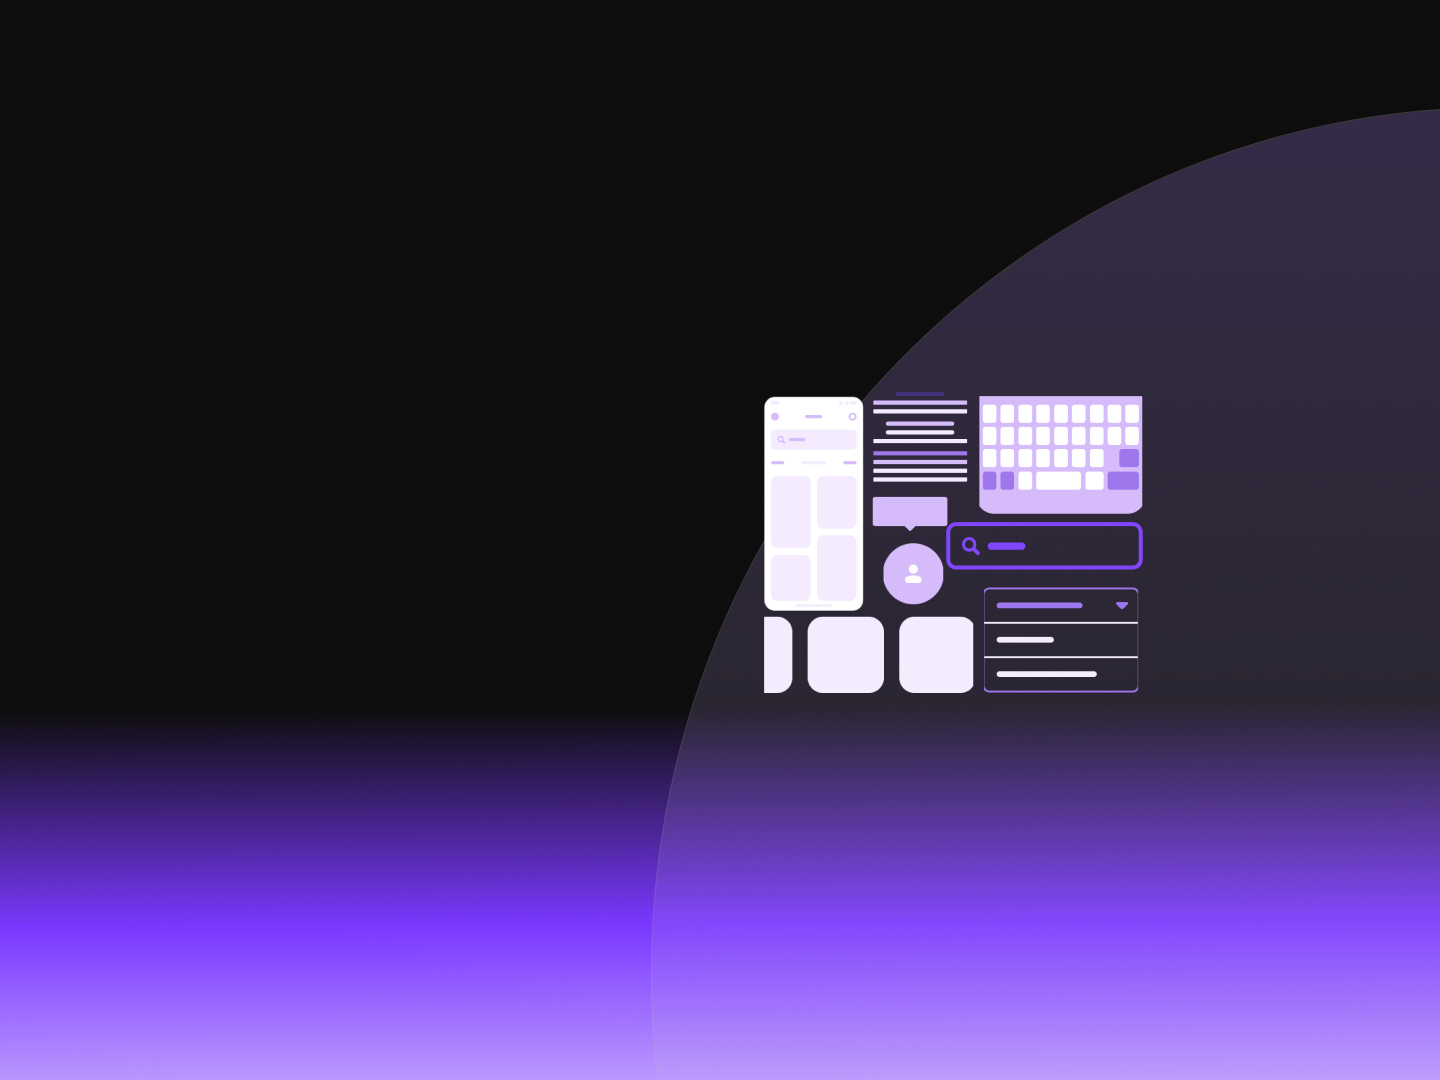
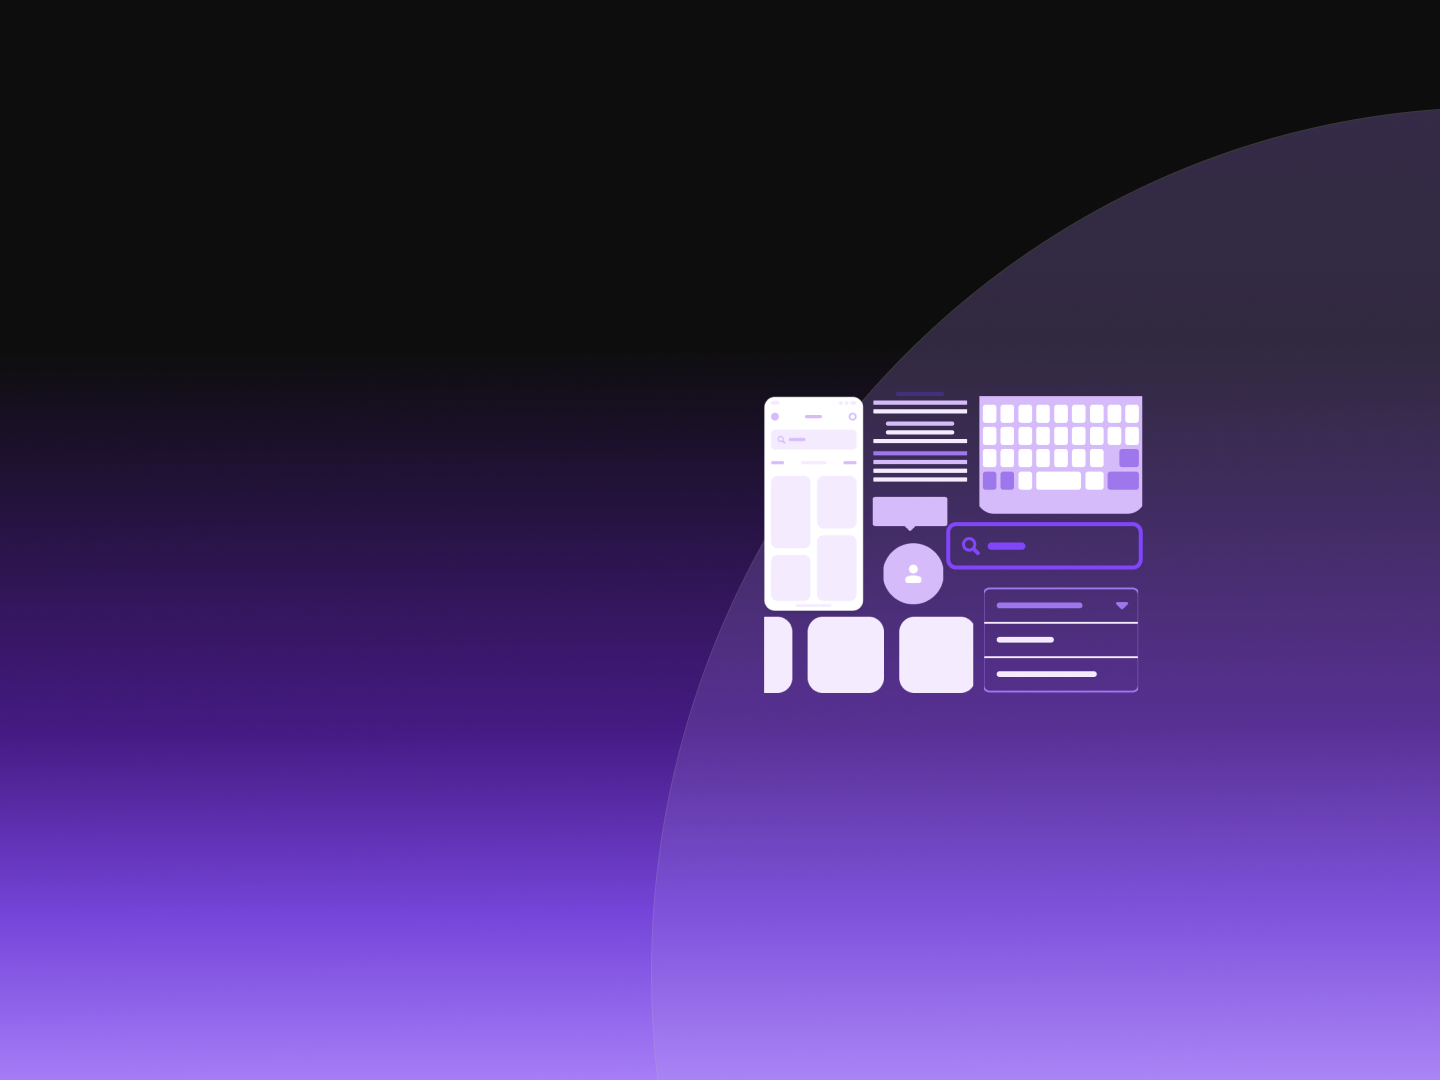
commit

diff --git a/styles/globals.css b/styles/globals.css
@@ -296,21 +296,18 @@ ul.ulStyle li {
 } 
 
 /* Small devices (portrait tablets and large phones, 600px and up) */
-@media only screen and (min-width: 600px) {
-
-} 
 
 /* Medium devices (landscape tablets, 768px and up) */
 @media only screen and (min-width:600px) and (max-width:768px) {
   .homeHero {
-    background-image: url("/assets/Tablet768_bg.png");
+    background-image: url("https://worldshaker.imgix.net//assets/Tablet768_bg.png");
     padding: 8px;
     min-height: 45rem;
   }
 } 
 @media only screen and (min-width:768px) and (max-width:900px) {
   .homeHero {
-    background-image: url("/assets/Desktop1440_bg.png");
+    background-image: url("https://worldshaker.imgix.net//assets/Desktop1440_bg.png");
     padding: 8px;
     min-height: 45rem;
   }
@@ -318,7 +315,7 @@ ul.ulStyle li {
 /* Large devices (lops/desktops, 992px and up) */
 @media only screen and (min-width:900px) and (max-width:1200px) {
   .homeHero {
-    background-image: url("/assets/Desktop1440_bg.png");
+    background-image: url("https://worldshaker.imgix.net/assets/Desktop1440_bg.png");
     position: relative;
     padding: 8px;
     min-height: 45rem;
@@ -328,7 +325,7 @@ ul.ulStyle li {
 /* Extra large devices (large laptops and desktops, 1200px and up) */
 @media only screen and (min-width:1200px) and (max-width:1440px) {
   .homeHero {
-    background-image: url("/assets/Desktop1440_bg.png");
+    background-image: url("https://worldshaker.imgix.net//assets/Desktop1440_bg.png");
     position: relative;
     padding: 8px;
     height: 100vh;
@@ -338,7 +335,7 @@ ul.ulStyle li {
 }
 @media only screen and (min-width:1440px) and (max-width:1920px) {
   .homeHero {
-    background-image: url("/assets/Desktop1920_bg.png");
+    background-image: url("https://worldshaker.imgix.net//assets/Desktop1920_bg.png");
     position: relative;
     padding: 8px;
     height: 100vh;
